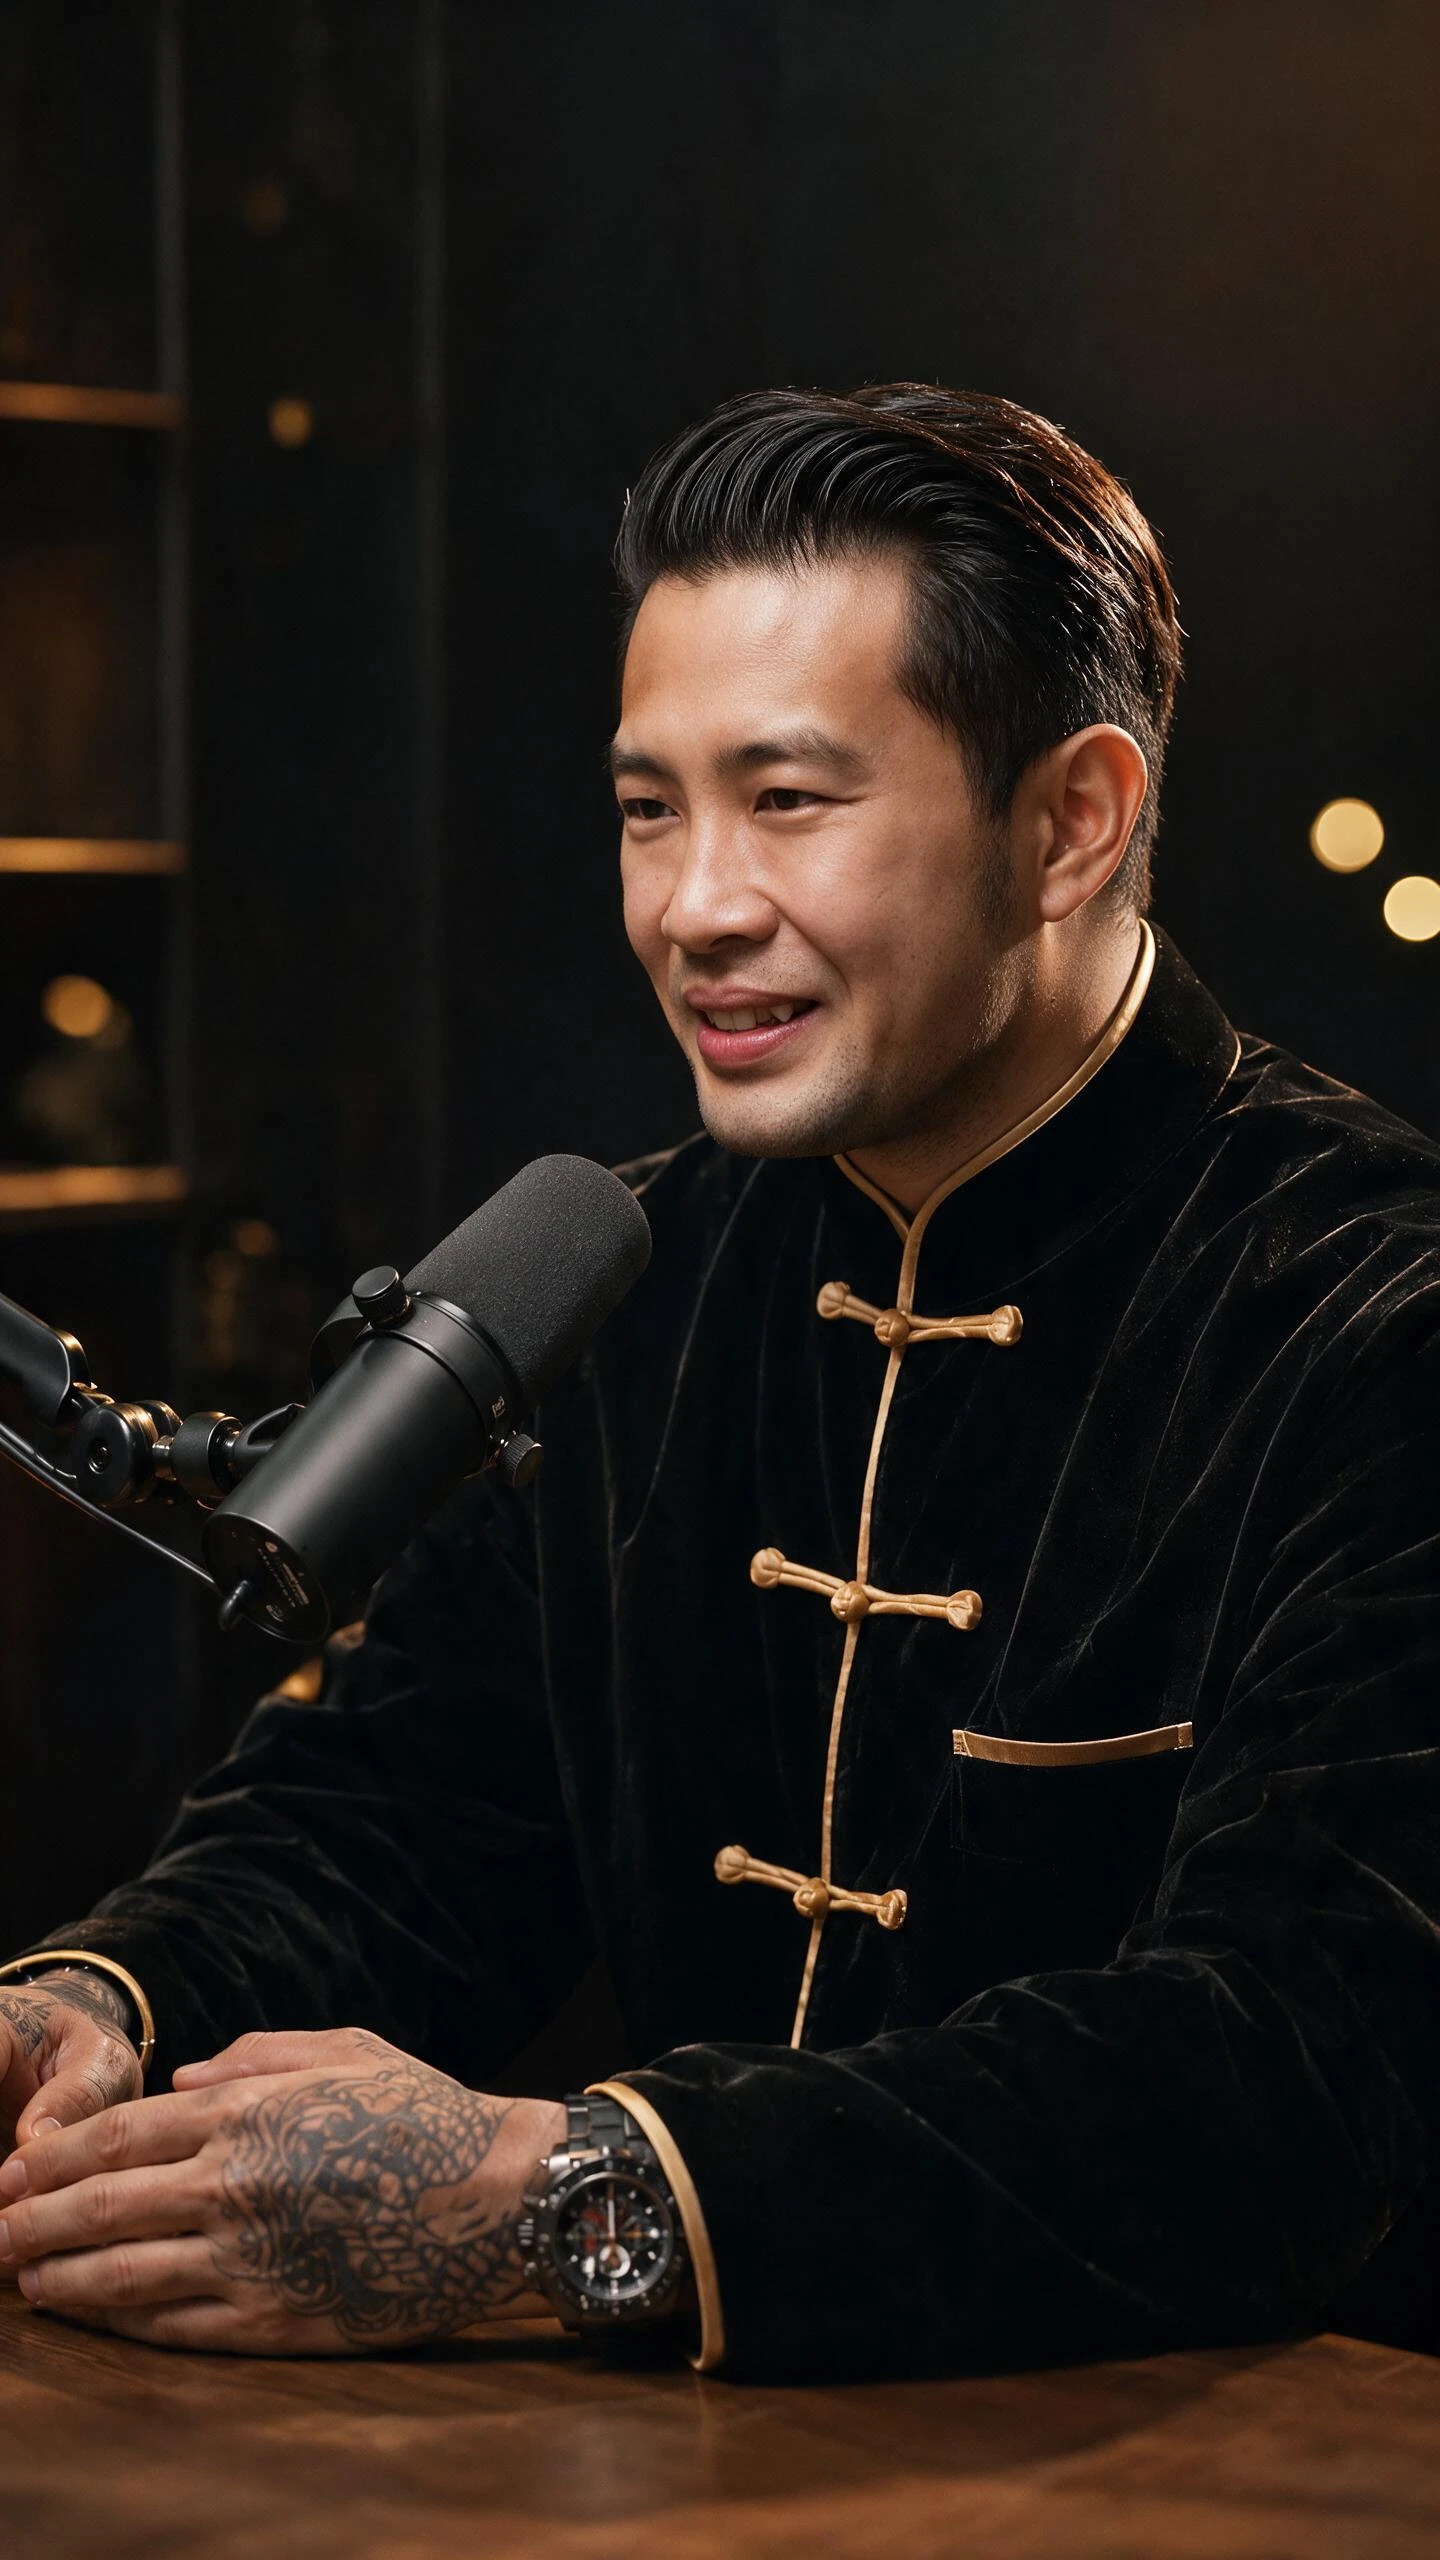
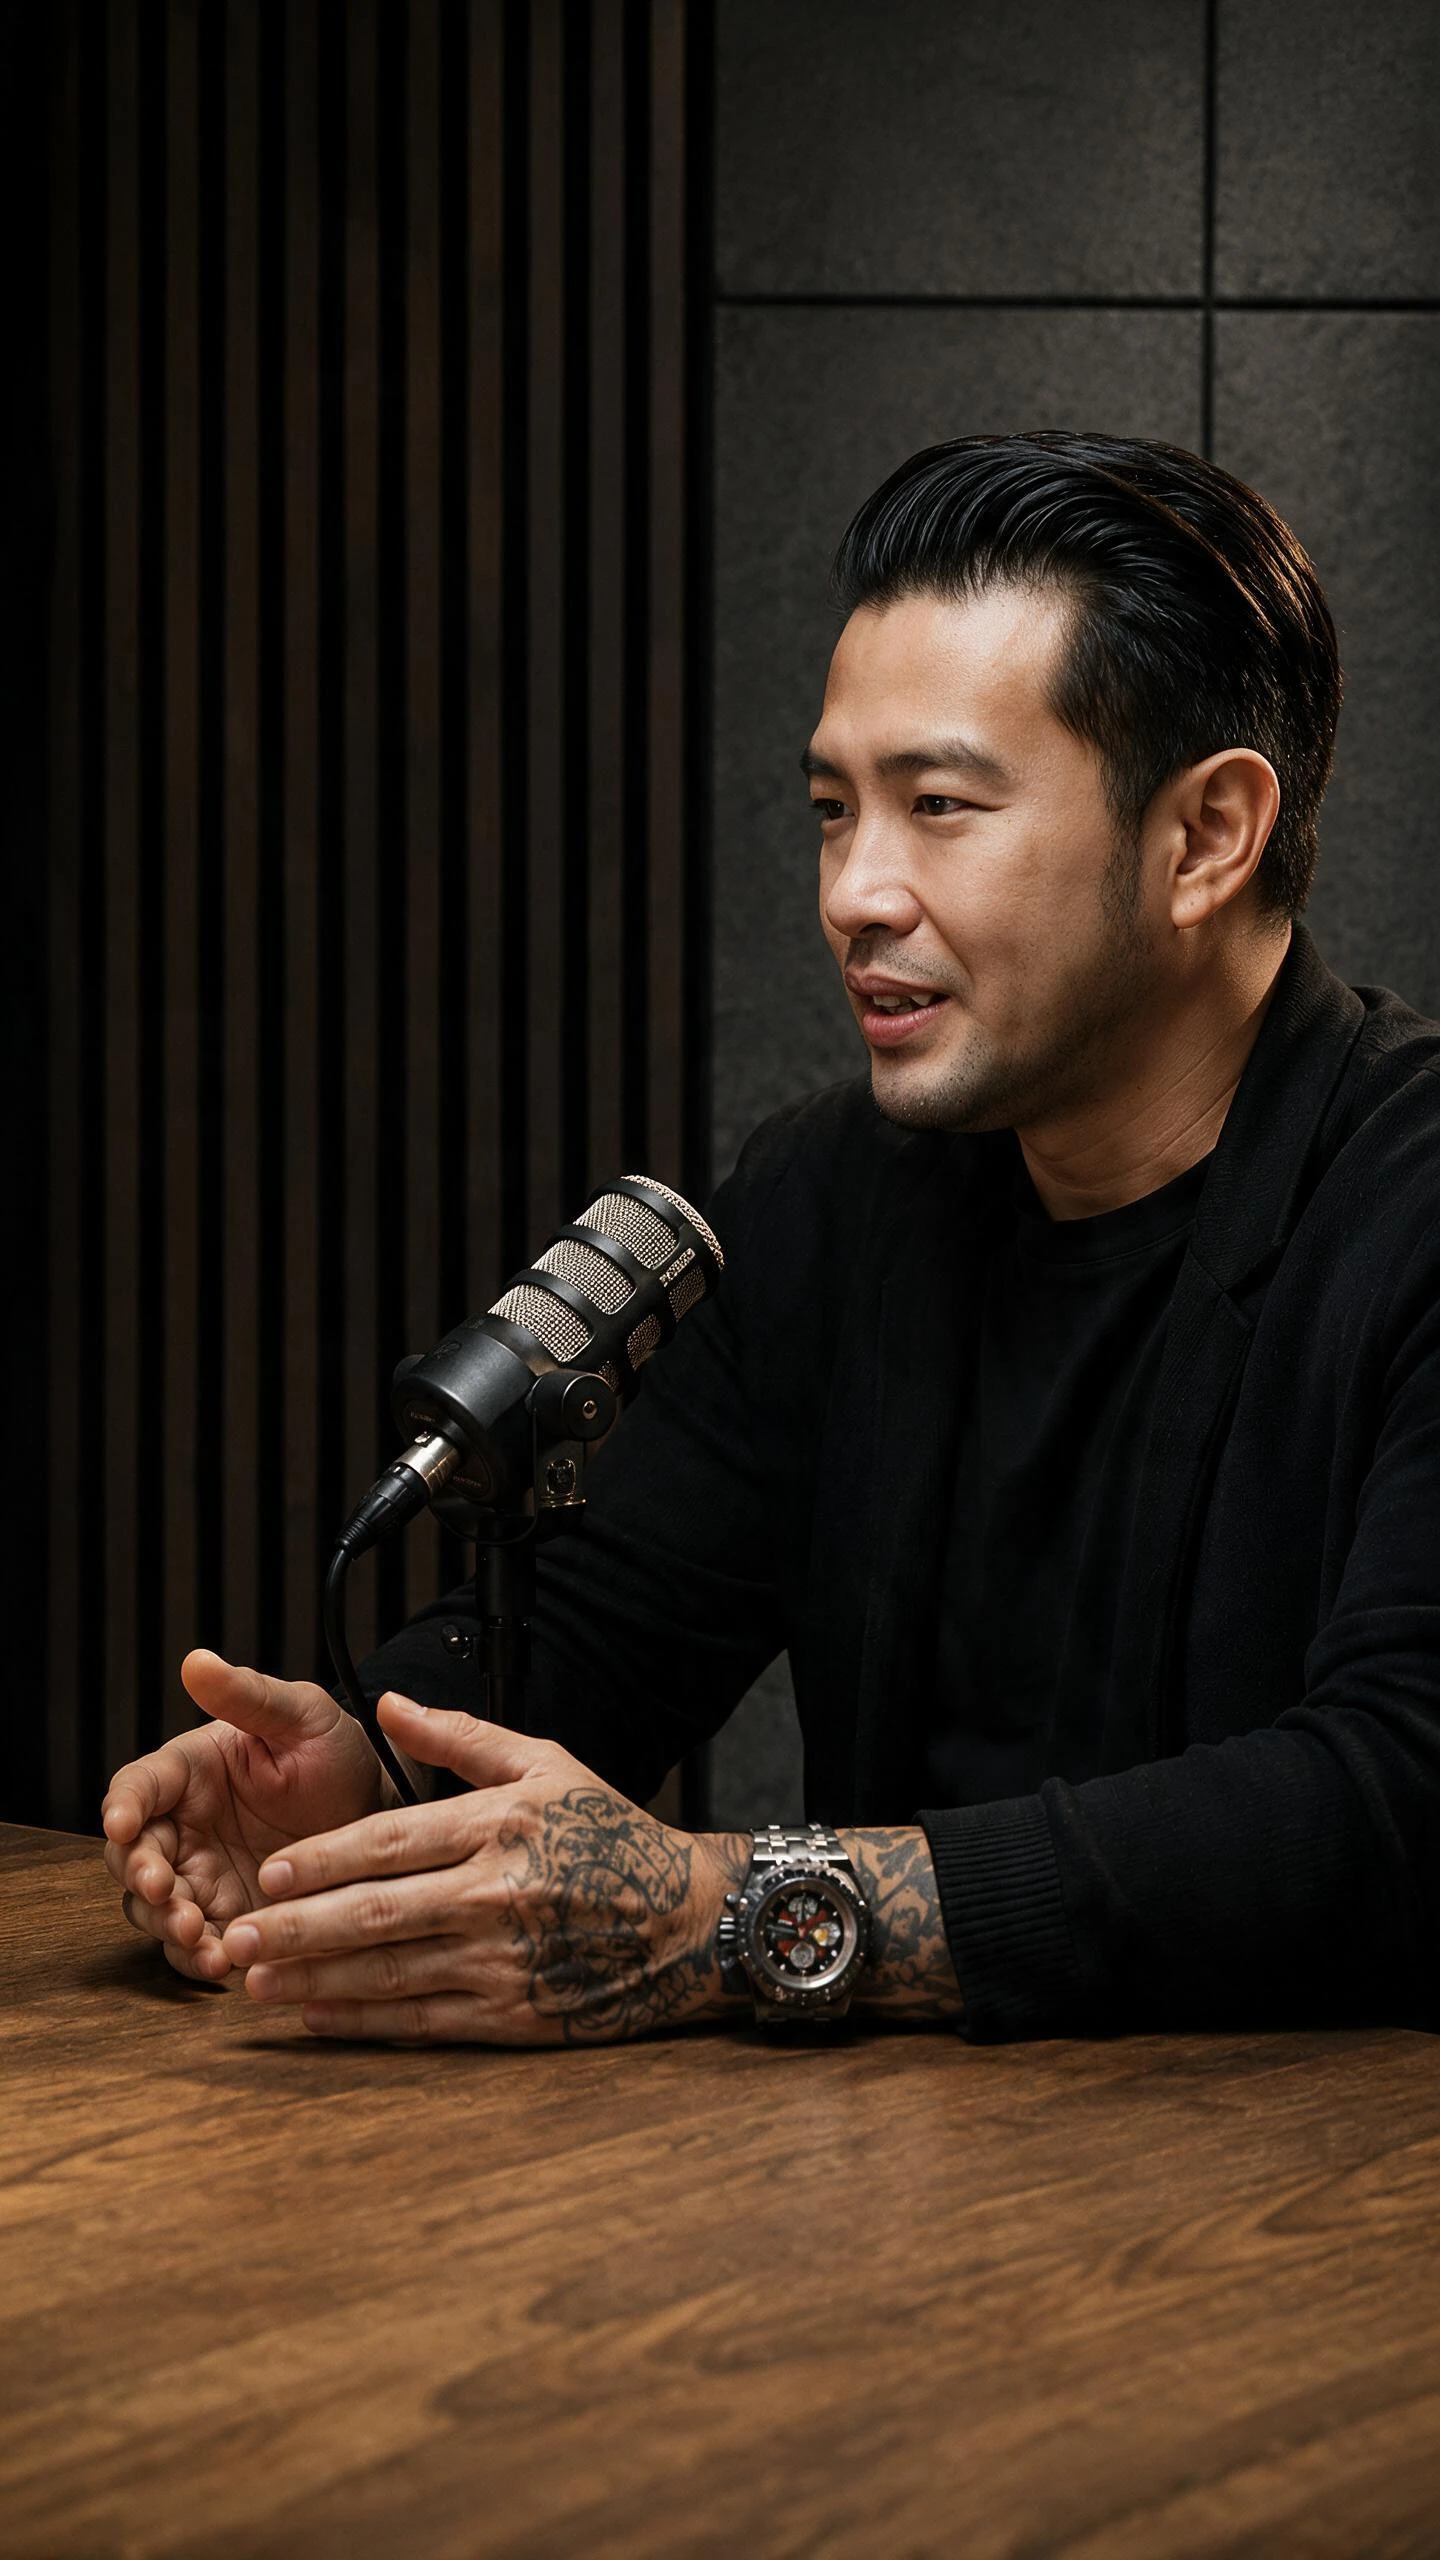
Add files via upload

diff --git a/index.html b/index.html
@@ -646,12 +646,14 @@
     left: 0; right: 0; bottom: 0;
     z-index: 3;
     padding: 40px 12px 12px;
+    text-align: center;
     background: linear-gradient(to top, rgba(0,0,0,0.95) 0%, rgba(0,0,0,0.7) 55%, transparent 100%);
   }
   .card-content-title {
-    font-size: 13px;
-    font-weight: 700;
-    line-height: 1.3;
+    font-family: 'Bebas Neue', sans-serif;
+    font-size: 26px;
+    letter-spacing: 1px;
+    line-height: 1.1;
     margin-bottom: 3px;
     text-shadow: 0 2px 8px rgba(0,0,0,0.8);
   }
@@ -1065,6 +1067,7 @@
   .dm-gallery-dots span.active { background: #fff; width: 20px; border-radius: 4px; }
 
   .detail-body { padding: 6px 32px 40px; }
+  .detail-body-title { display: none; } /* judul di hero (desktop) */
   .detail-meta {
     display: flex;
     align-items: center;
@@ -1319,8 +1322,17 @@
   @media (max-width: 768px) {
     .detail-modal { padding: 0; }
     .detail-card { max-width: none; min-height: 100vh; border-radius: 0; margin: 0; }
-    .detail-hero-title { font-size: 34px; left: 20px; right: 20px; bottom: 18px; }
-    .detail-body { padding: 6px 20px 48px; }
+    /* Mobile: judul turun ke bawah hero, tidak overlap; overlay gradient tetap */
+    .detail-hero-title { display: none; }
+    .detail-body-title {
+      display: block;
+      font-family: 'Bebas Neue', sans-serif;
+      font-size: 34px;
+      letter-spacing: 1.5px;
+      line-height: 1;
+      margin-bottom: 12px;
+    }
+    .detail-body { padding: 24px 20px 48px; } /* gap antara hero & teks */
     .detail-layout { grid-template-columns: 1fr; gap: 8px; }
     .detail-side { margin-top: 8px; }
     .episode-thumb { width: 120px; height: 68px; }
@@ -1563,7 +1575,7 @@
   <div class="cards-scroll">
 
     <div class="card-content" onclick="openDetail('born-to-lead')">
-      <div class="card-content-img" style="background-image:url('born-to-lead.webp?timestamp=1786099139447');background-size:cover;background-position:center;">
+      <div class="card-content-img" style="background-image:url('born-to-lead.webp?timestamp=1786185011352');background-size:cover;background-position:center;">
         <div class="platform-badge platform-ig">IG</div>
       </div>
       <div class="card-content-info">
@@ -1572,7 +1584,7 @@
     </div>
 
     <div class="card-content" onclick="openDetail('creative-talk')">
-      <div class="card-content-img" style="background-image:url('creative-talk.webp?timestamp=1786099139447');background-size:cover;background-position:center;">
+      <div class="card-content-img" style="background-image:url('creative-talk.webp?timestamp=1786185011352');background-size:cover;background-position:center;">
         <div class="platform-badge platform-ig">IG</div>
       </div>
       <div class="card-content-info">
@@ -1581,7 +1593,7 @@
     </div>
 
     <div class="card-content" onclick="openDetail('leadership')">
-      <div class="card-content-img" style="background-image:url('leadership.webp?timestamp=1786099139447');background-size:cover;background-position:center;">
+      <div class="card-content-img" style="background-image:url('leadership.webp?timestamp=1786185011352');background-size:cover;background-position:center;">
         <div class="platform-badge platform-ig">IG</div>
       </div>
       <div class="card-content-info">
@@ -1590,7 +1602,7 @@
     </div>
 
     <div class="card-content" onclick="openDetail('suhu-kreatif')">
-      <div class="card-content-img" style="background-image:url('suhu-kreatif.webp?timestamp=1786099139447');background-size:cover;background-position:center;">
+      <div class="card-content-img" style="background-image:url('suhu-kreatif.webp?timestamp=1786185011352');background-size:cover;background-position:center;">
         <div class="platform-badge platform-ig">IG</div>
       </div>
       <div class="card-content-info">
@@ -2101,7 +2113,7 @@
     });
     return {
       type: 'creator',
-      hero: `${slug}.webp`,
+      hero: `${slug}-ls.webp`,
       title, metaGreen: '230K+ Followers', year: 'Instagram · Reels',
       badges: ['CONTENT SERIES', `${n} Reels`],
       desc,
@@ -2212,6 +2224,7 @@
         <button class="detail-close" onclick="closeDetail()" aria-label="Tutup">✕</button>
       </div>
       <div class="detail-body">
+        <h1 class="detail-body-title">${d.title}</h1>
         <div class="detail-meta">
           <span class="meta-green">${d.metaGreen}</span>
           <span>${d.year}</span>
